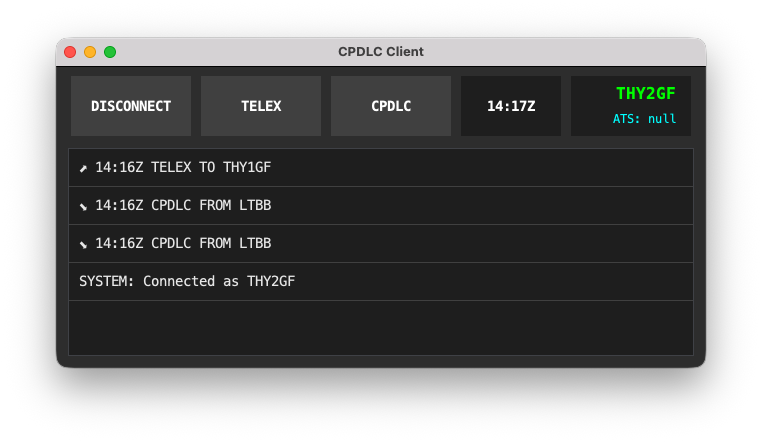
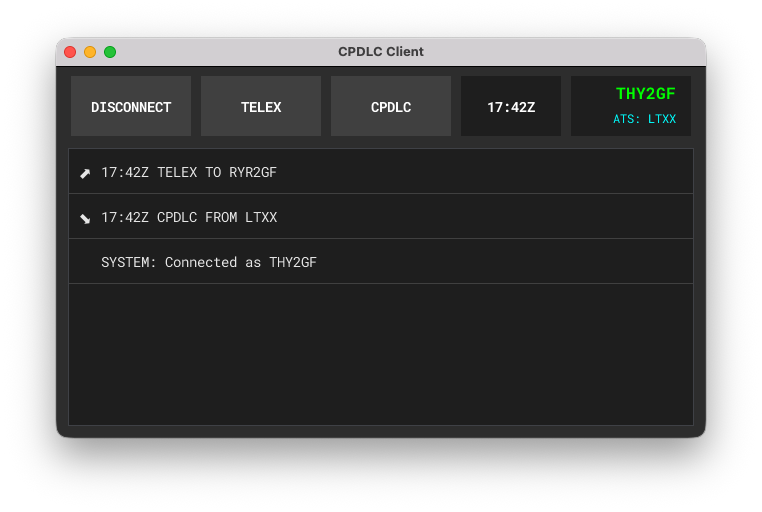
added send request functionality

diff --git a/src/gui/DashboardPanel.java b/src/gui/DashboardPanel.java
@@ -146,13 +146,13 @@ public class DashboardPanel extends JPanel {
         setConnectionStatus(connectionMsg.getMessage().startsWith("Connected"));
         addMessage(connectionMsg);
 
-        changeATSUnit("TEST");
+        changeATSUnit("LTXX");
 
 //CLD 1614 260119 LTAC PDC 001 @THY1GF@ CLRD TO @LTFM@ OFF @03C@ VIA @YAVRU1T@ SQUAWK @6445@ NEXT FREQ @129.425@ ATIS @B@, @QNH 1023@ DEP FREQ @129.425@ CLIMB VIA SID TO ALTITUDE @FL140@ IF YOU REQ. RWY CHG. CALL @129.425@ BEFORE ACCEPTING VIA DCL.
-//        addMessage(new CpdlcMessage("LTXX", "cpdlc", "RYR2GF", "CLD 1614 260119 LTAC PDC 001 @THY1GF@ CLRD TO @LTFM@ OFF @03C@ VIA @YAVRU1T@ SQUAWK @6445@ NEXT FREQ @129.425@ ATIS @B@, @QNH 1023@ DEP FREQ @129.425@ CLIMB VIA SID TO ALTITUDE @FL140@ IF YOU REQ. RWY CHG. CALL @129.425@ BEFORE ACCEPTING VIA DCL.", 1, -1, "WU"));
+        addMessage(new CpdlcMessage("LTXX", "cpdlc", "RYR2GF", "CLD 1614 260119 LTAC PDC 001 @THY1GF@ CLRD TO @LTFM@ OFF @03C@ VIA @YAVRU1T@ SQUAWK @6445@ NEXT FREQ @129.425@ ATIS @B@, @QNH 1023@ DEP FREQ @129.425@ CLIMB VIA SID TO ALTITUDE @FL140@ IF YOU REQ. RWY CHG. CALL @129.425@ BEFORE ACCEPTING VIA DCL.", 1, -1, "WU"));
 //        addMessage(new CpdlcMessage("CMRM", "cpdlc", "RYR2GF", "MAINTAIN @FL370", 1, -1, "WU"));
 //        addMessage(new CpdlcMessage("CMRM", "cpdlc", "RYR2GF", "CURRENT ATC UNIT@_@CMRM@_@MADRID CTL@CURRENT ATC UNIT@_@CMRM@_@MADRID CTL", 1, -1, "NE"));
-//        addMessage(new AcarsMessage("THY2GF", "telex", "RYR2GF", "HELLO"));
+        addMessage(new AcarsMessage("THY2GF", "telex", "RYR2GF", "HELLO"));
 
     }
 
@@ -822,6 +822,7 @@ public class DashboardPanel extends JPanel {
 
         // --- FORM AREA ---
         RequestForm formPanel = new RequestDirectForm();
+        returnBtn.addActionListener(e -> {formPanel.clean();});
         p.add(formPanel, BorderLayout.CENTER);
 
         // --- SEND BUTTON ---
@@ -829,8 +830,15 @@ public class DashboardPanel extends JPanel {
         sendBtn.setPreferredSize(new Dimension(0, 40));
         sendBtn.setCustomColor(new Color(60, 120, 60), Color.WHITE);
         sendBtn.addActionListener(e -> {
-            System.out.println(formPanel.getRequestText());
-            System.out.println(formPanel.getDueText());
+            String reqText = formPanel.getRequestText();
+            if(reqText != null && !reqText.isEmpty()) {
+                String dueText = formPanel.getDueText();
+                reqText += " "  + dueText;
+                sendRequest(reqText);
+                formPanel.clean();
+                cardLayout.show(cardContainer, "LIST");
+
+            }
         });
         p.add(sendBtn, BorderLayout.SOUTH);
 
@@ -846,6 +854,7 @@ public class DashboardPanel extends JPanel {
 
         // --- FORM AREA ---
         RequestForm formPanel = new RequestSpeedForm();
+        returnBtn.addActionListener(e -> {formPanel.clean();});
         p.add(formPanel, BorderLayout.CENTER);
 
         // --- SEND BUTTON ---
@@ -853,8 +862,15 @@ public class DashboardPanel extends JPanel {
         sendBtn.setPreferredSize(new Dimension(0, 40));
         sendBtn.setCustomColor(new Color(60, 120, 60), Color.WHITE);
         sendBtn.addActionListener(e -> {
-            System.out.println(formPanel.getRequestText());
-            System.out.println(formPanel.getDueText());
+            String reqText = formPanel.getRequestText();
+            if(reqText != null && !reqText.isEmpty()) {
+                String dueText = formPanel.getDueText();
+                reqText += " "  + dueText;
+                sendRequest(reqText);
+                formPanel.clean();
+                cardLayout.show(cardContainer, "LIST");
+
+            }
         });
         p.add(sendBtn, BorderLayout.SOUTH);
 
@@ -870,6 +886,7 @@ public class DashboardPanel extends JPanel {
 
         // --- FORM AREA ---
         RequestForm formPanel = new RequestLevelForm();
+        returnBtn.addActionListener(e -> {formPanel.clean();});
         p.add(formPanel, BorderLayout.CENTER);
 
         // --- SEND BUTTON ---
@@ -877,8 +894,15 @@ public class DashboardPanel extends JPanel {
         sendBtn.setPreferredSize(new Dimension(0, 40));
         sendBtn.setCustomColor(new Color(60, 120, 60), Color.WHITE);
         sendBtn.addActionListener(e -> {
-            System.out.println(formPanel.getRequestText());
-            System.out.println(formPanel.getDueText());
+            String reqText = formPanel.getRequestText();
+            if(reqText != null && !reqText.isEmpty()) {
+                String dueText = formPanel.getDueText();
+                reqText += " "  + dueText;
+                sendRequest(reqText);
+                formPanel.clean();
+                cardLayout.show(cardContainer, "LIST");
+
+            }
         });
         p.add(sendBtn, BorderLayout.SOUTH);
 
@@ -951,6 +975,8 @@ public class DashboardPanel extends JPanel {
         PilotButton reqLevel = createCpdlcMenuButton("LEVEL");
         PilotButton reqSpeed = createCpdlcMenuButton("SPEED");
         PilotButton reqWhen = createCpdlcMenuButton("WHEN CAN WE");
+        disableButton(reqWhen);
+
 
         reqDirect.addActionListener(e -> cardLayout.show(cardContainer, "REQUEST_DIRECT_TO"));
         reqLevel.addActionListener(e -> cardLayout.show(cardContainer, "REQUEST_LEVEL"));
@@ -976,7 +1002,7 @@ public class DashboardPanel extends JPanel {
 
             //These button only works if logged on to ATC
             enableButton(btnRequest);
-            enableButton(btnReport);
+//            enableButton(btnReport);
         } else { //We are not connected to an ATC
             //Change to LOGON button
             btnLogonATC.setForeground(new Color(180, 100, 200));
@@ -1063,6 +1089,15 @@ public class DashboardPanel extends JPanel {
         //Thread for networking
         new Thread(()->{
             AcarsMessage msg = hoppieAPI.sendTelex(station, callsign, message);
+            setConnectionStatus(!msg.getType().equalsIgnoreCase("system"));
+            addMessage(msg);
+        }).start();
+    }
+
+    private void sendRequest(String message) {
+        //Thread for networking
+        new Thread(()->{
+            AcarsMessage msg = hoppieAPI.request(currentATS, callsign, message);
             setConnectionStatus(!msg.getType().equalsIgnoreCase("system"));
             addMessage(msg);
         }).start();

diff --git a/src/gui/request/RequestForm.java b/src/gui/request/RequestForm.java
@@ -72,6 +72,7 @@ public abstract class RequestForm extends JPanel{
         buttonGroup.add(weatherOpt, BorderLayout.CENTER);
         buttonGroup.add(freeTextOpt, BorderLayout.SOUTH);
 
+
         dueContainer.add(dueLabel, BorderLayout.NORTH);
         dueContainer.add(buttonGroup, BorderLayout.CENTER);
 
@@ -91,7 +92,6 @@ public abstract class RequestForm extends JPanel{
                 BorderFactory.createEmptyBorder(0, 5, 0, 5)
         ));
         ((AbstractDocument) remarkField.getDocument()).setDocumentFilter(new UppercaseFilter());
-        remarkField.setBorder(BorderFactory.createLineBorder(Color.DARK_GRAY));
         gbc.gridy = 2; gbc.gridx=0;
         this.add(remarkField, gbc);
 
@@ -176,6 +176,12 @@ public abstract class RequestForm extends JPanel{
                 BorderFactory.createEmptyBorder(0, 5, 0, 5)
         ));
         ((AbstractDocument) reqField.getDocument()).setDocumentFilter(new UppercaseFilter());
+    }
+
+    public void clean(){
+        reqField.setText("");
+        remarkField.setText("");
+        dueGroup.clearSelection();
     }
 
 

diff --git a/src/gui/NumericFilter.java b/src/gui/NumericFilter.java
@@ -9,7 +9,8 @@ public class NumericFilter extends DocumentFilter {
     public void insertString(FilterBypass fb, int offset, String string, AttributeSet attr)
             throws BadLocationException {
         if (string == null) return;
-        if (isNumeric(string)) {
+        int total = fb.getDocument().getLength() + string.length();
+        if (isNumeric(string) && total <= 3) {
             super.insertString(fb, offset, string, attr);
         }
     }
@@ -18,7 +19,8 @@ public class NumericFilter extends DocumentFilter {
     public void replace(FilterBypass fb, int offset, int length, String text, AttributeSet attrs)
             throws BadLocationException {
         if (text == null) return;
-        if (isNumeric(text)) {
+        int total = fb.getDocument().getLength() - length + text.length();
+        if (isNumeric(text) && total <= 3) {
             super.replace(fb, offset, length, text, attrs);
         }
     }

diff --git a/src/gui/request/RequestDirectForm.java b/src/gui/request/RequestDirectForm.java
@@ -25,4 +25,11 @@ public class RequestDirectForm extends RequestForm{
 
         return reqContainer;
     }
+
+    @Override
+    public String getRequestText() {
+        String level = super.getRequestText();
+        if (level == null || level.isEmpty()) return "";
+        return String.format("REQUEST DIRECT TO %s", level);
+    }
 }

diff --git a/src/gui/request/RequestLevelForm.java b/src/gui/request/RequestLevelForm.java
@@ -28,4 +28,11 @@ public class RequestLevelForm extends RequestForm {
 
     }
 
+    @Override
+    public String getRequestText() {
+        String level = super.getRequestText();
+        if (level == null || level.isEmpty()) return "";
+        return String.format("REQUEST LEVEL %s", level);
+    }
+
 }

diff --git a/src/hoppie/HoppieAPI.java b/src/hoppie/HoppieAPI.java
@@ -314,4 +314,8 @@ public class HoppieAPI {
         return this.cpdlcRequest(station, callsign, "STANDBY", false, repliedMsg);
     }
 
+    public AcarsMessage request(String station, String callsign, String text) {
+        return this.cpdlcRequest(station, callsign, text, true);
+    }
+
 }

diff --git a/README.md b/README.md
@@ -5,8 +5,8 @@ It is written on Java so you can use it on any platform (Windows/Linux/macOS).
 ![Screenshot of the Java CPDLC](src/resources/images/screenshot.png)
 
 ## Notes
-- Currently, CPDLC messages cannot be sent as I have not yet implemented this feature totally. However, all types of messages can be fetched and replied (including CPDLC messages). This means TELEX messages can be sent and received with no problem.
-- I am not planning to create a release before making a fully functional CPDLC client. So if you want to use JavaCPDLC, you should compile it on your machine.
+- For any feedback please contact me with mail: thmsacar@gmail.com
+- Currently, CPDLC reports cannot be sent as I have not yet implemented this feature totally. However, all other types of messages can be fetched and replied. Requests can be sent without problem.
 ## Important Note on Java 8
 - Java CPDLC is coded on Java 8 (Java SDK 1.8) as I wanted it to be compatible on as many machine as possible. Therefore, it does not use HTTP Client, which was released after Java 11. Take this into account during compilation.
 
@@ -23,10 +23,7 @@ As of now, the code doesn't have javadoc so it's a bit of mess. I will for sure 
 However, any pull requests are still welcome. See below what I am currently working on. 
 
 #### Features to implement
-- Simbrief implementation for to fill auto pre-departure clearence. Backend part is completed and fully working.
-- CPDLC menu and ATC connection. Currently, it is impossible so send any type of CPDLC message using the UI. Relevant UI pages should be created to: 
-  1. Send LOGON request to ATC. Which will enable other CPDLC features only when logon request is accepted by a 'LOGON ACCEPTED' response.
-  2. PDC request: Backend for this feature is completely finished. A UI page where user fills necessary information should be created. I am planning to add a space where it's possible to fetch Simbrief flight plan which will automatically fill these information.
-  3. Send CPDLC requests and reports: These menus should be only activated if logged on to an ATC unit. Requests and reports should consist of certain templates where user fills necessary information. These templates should be created using ICAO documents, which is kind of a boring task. 
-- CPDLC backend is working however frontend is not ready to implement this feature. I need to write CPDLC message templates to send classic CPDLC messages. 
-- Finally: I need a logo for the application. I added a temporary logo to show up on taskbar, which is absolutely horrible.
+- Send CPDLC reports
+- Send When can we? request
+- Clean the code and structure
+
